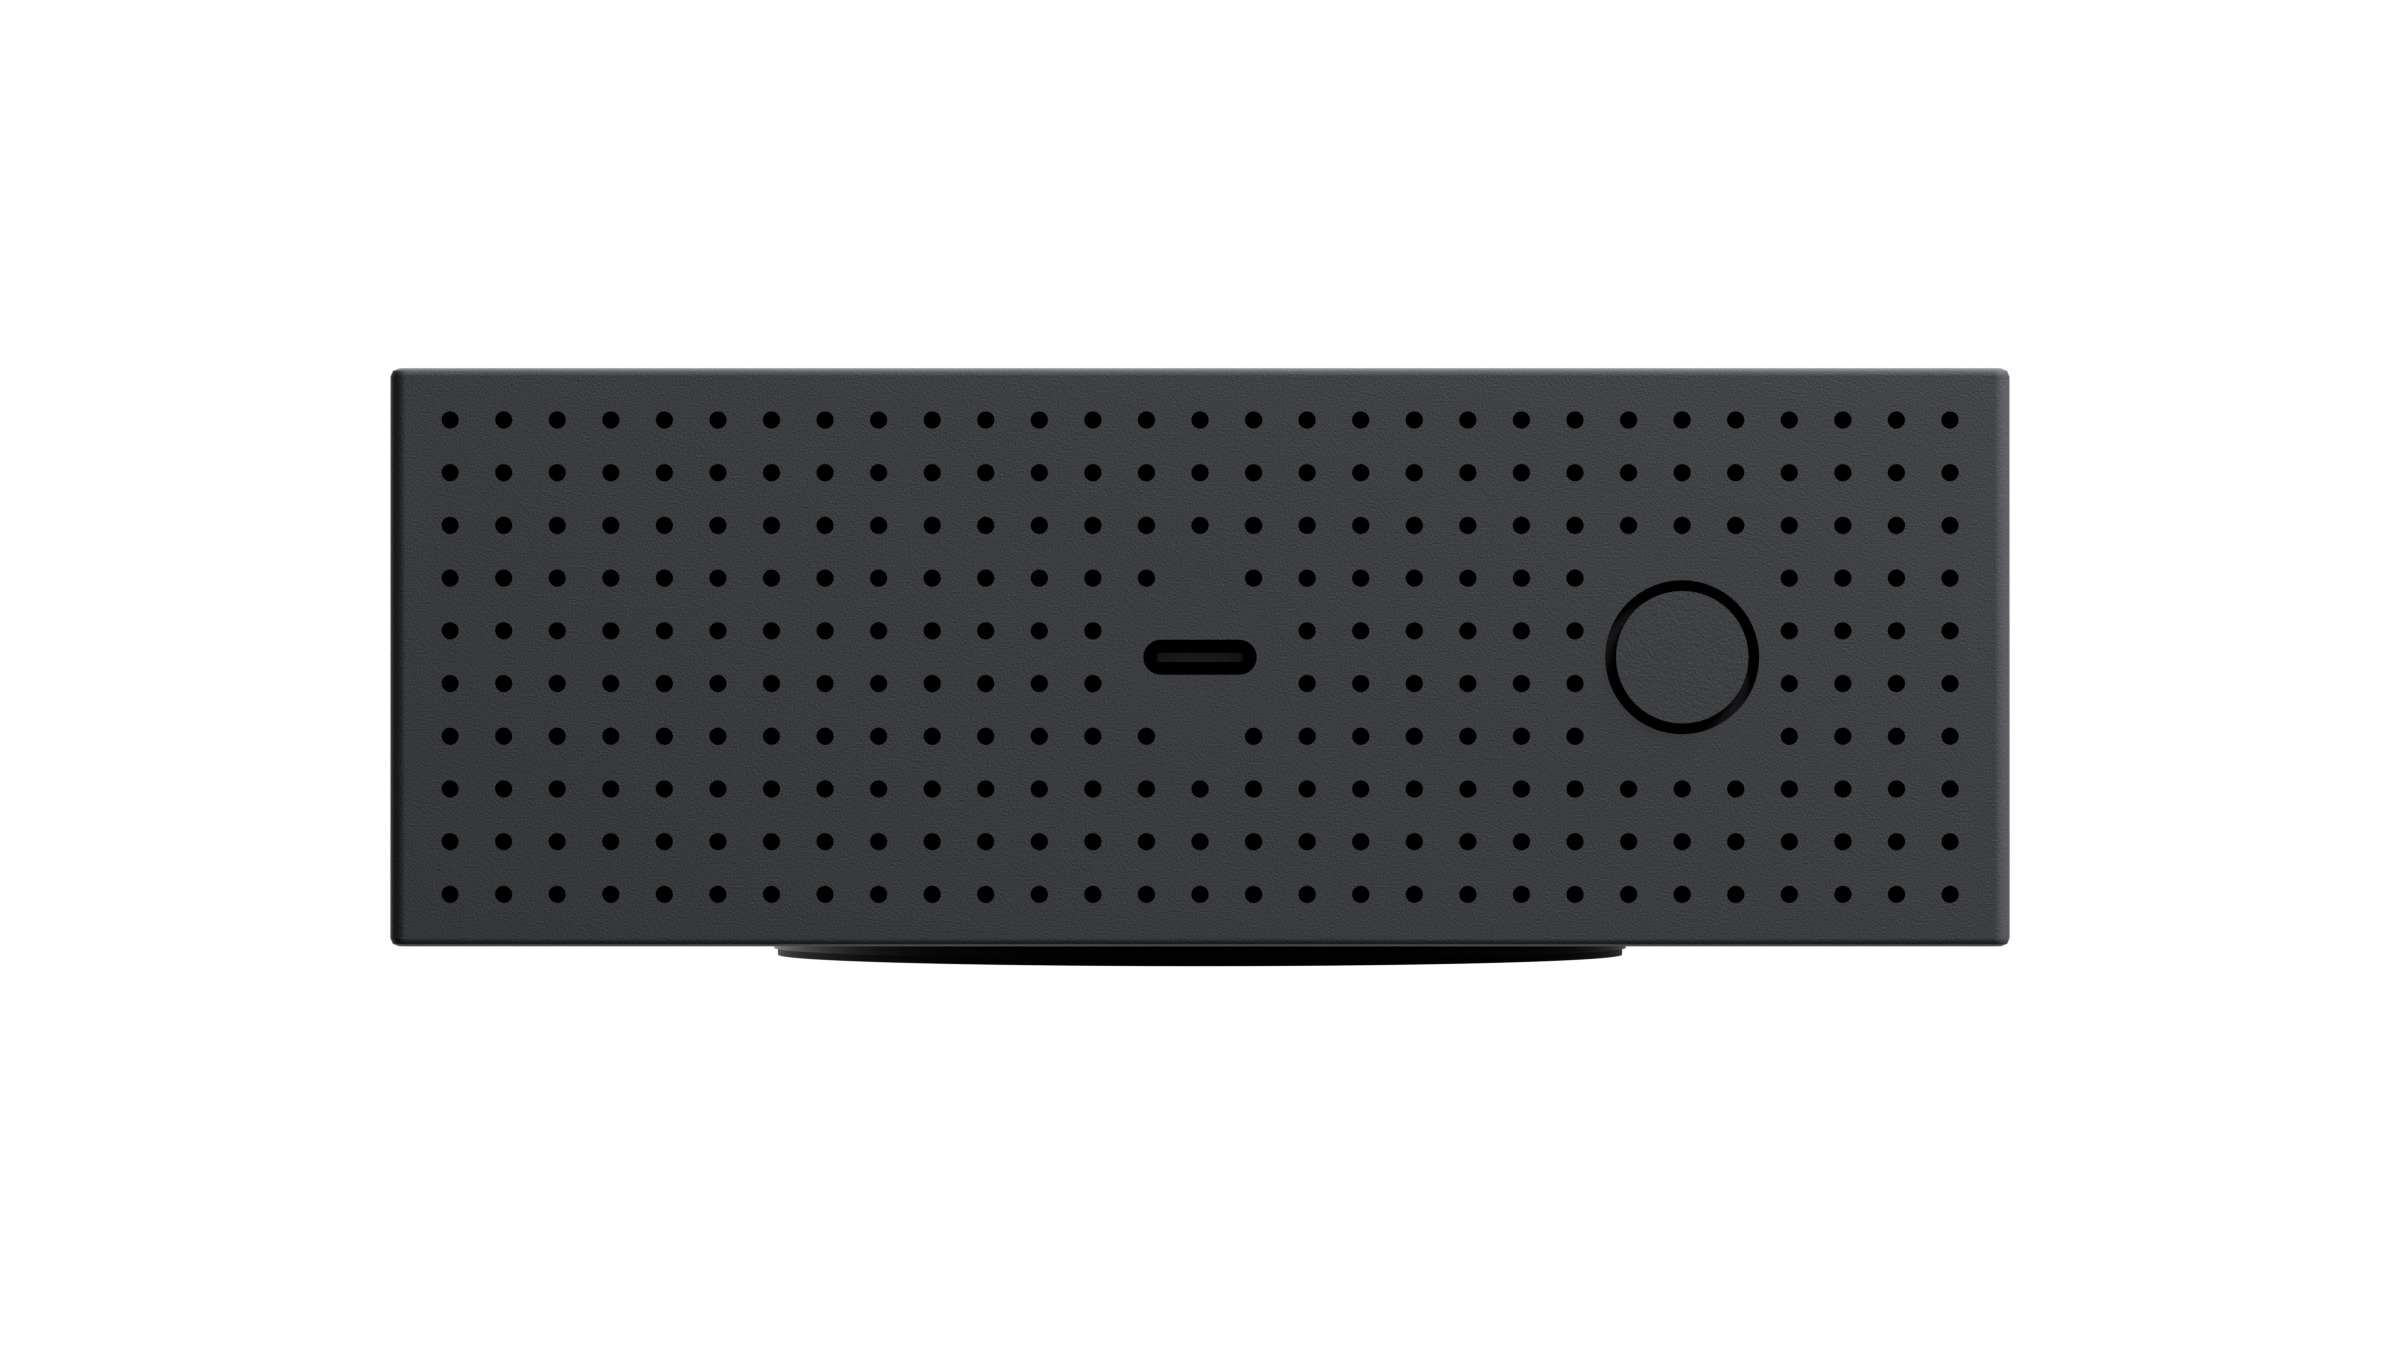
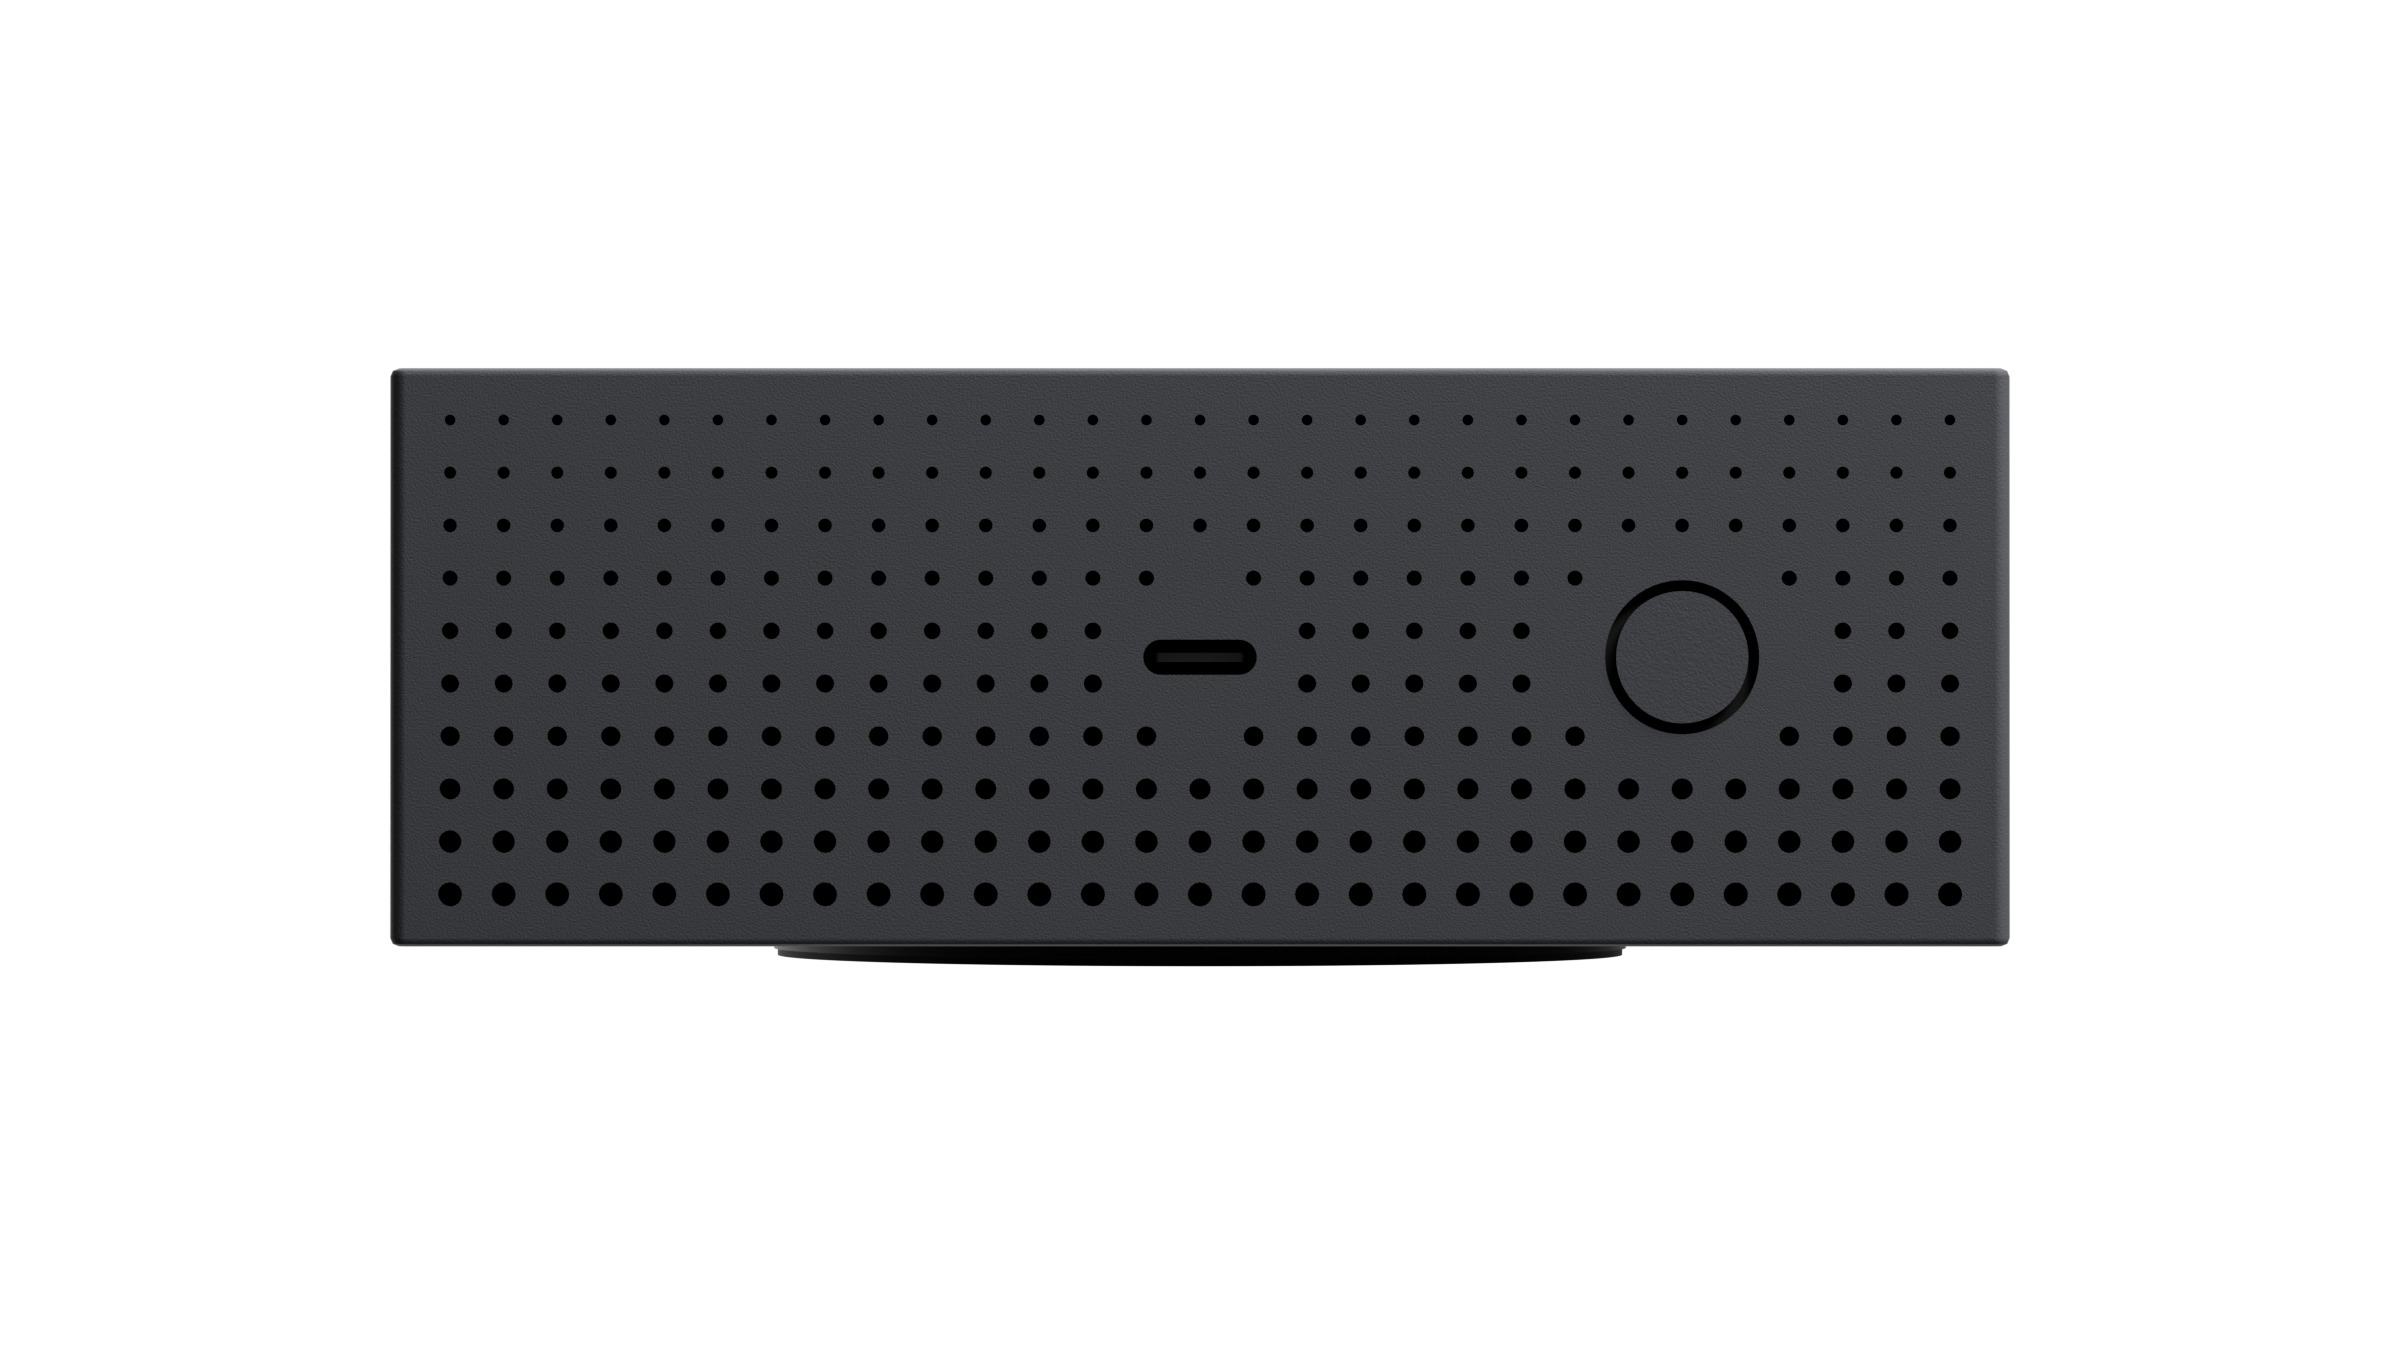
Deck: AuraWake graded speaker holes, button clearance, bracelet like the owner's reference

diff --git a/deck/blender/aura.py b/deck/blender/aura.py
@@ -148,6 +148,10 @@ def grid(L, n, d=HOLE_D):
 PU, OU, NU = grid(W - 2 * EDGE_P, 29)   # small holes, wide gaps (owner ref): gap ≈ 2.66 mm
 PV, OV, NV = grid(H - 2 * EDGE_T, 10)   # gap ≈ 2.60 mm
 def cols(p, o, n): return [-(n - 1) / 2 * p + i * p for i in range(n)]
+R_TOP, R_BOT = 0.0004, 0.0009   # hole radius, top row → bottom row (owner: graded, small at the top)
+SPAN_V = (NV - 1) / 2 * PV
+def hole_r(cv): return R_BOT + (R_TOP - R_BOT) * (cv + SPAN_V) / (2 * SPAN_V)
+BTN_CLEAR = 0.0085  # clears the button's gap plus the 2 + 2 holes beside it
 BTN_X = -9 * PU            # Bluetooth button on a hole column, right of the inlet seen from behind (world -X)
 
 def speaker_mask(nt):
@@ -171,11 +175,12 @@ def speaker_mask(nt):
     iu, iv = op('ROUND', op('DIVIDE', op('SUBTRACT', u, OU), PU)), op('ROUND', op('DIVIDE', op('SUBTRACT', v, OV), PV))
     cu, cv = op('ADD', op('MULTIPLY', iu, PU), OU), op('ADD', op('MULTIPLY', iv, PV), OV)
     fu, fv = op('SUBTRACT', u, cu), op('SUBTRACT', v, cv)
-    hole = op('LESS_THAN', op('ADD', op('MULTIPLY', fu, fu), op('MULTIPLY', fv, fv)), (HOLE_D / 2) ** 2)
+    rr = op('ADD', R_BOT, op('MULTIPLY', op('DIVIDE', op('ADD', cv, SPAN_V), 2 * SPAN_V), R_TOP - R_BOT))
+    hole = op('LESS_THAN', op('ADD', op('MULTIPLY', fu, fu), op('MULTIPLY', fv, fv)), op('MULTIPLY', rr, rr))
     region = op('MULTIPLY', op('LESS_THAN', op('ABSOLUTE', cu), (NU - 1) / 2 * PU + 1e-5), op('LESS_THAN', op('ABSOLUTE', cv), (NV - 1) / 2 * PV + 1e-5))
     def away(cx, rr):  # whole holes only: distance from the hole centre
         return op('GREATER_THAN', op('ADD', op('POWER', op('SUBTRACT', cu, cx), 2.0), op('POWER', cv, 2.0)), rr * rr)
-    back = op('MULTIPLY', isB, op('MULTIPLY', away(0.0, 0.0066), away(BTN_X, 0.0078)))
+    back = op('MULTIPLY', isB, op('MULTIPLY', away(0.0, 0.0066), away(BTN_X, BTN_CLEAR)))
     return op('MULTIPLY', op('MULTIPLY', hole, region), op('MAXIMUM', isX, back))
 
 def satin(name, color):
@@ -206,7 +211,7 @@ def body_toon(name, color):
     return m
 
 TABLE = SHOT == 'table'
-STUDIO = SHOT in ('table', 'front', 'back', 'top', 'bottom', 'cable', 'persp', 'lit', 'band', 'persp_back')
+STUDIO = SHOT in ('persp_band', 'table', 'front', 'back', 'top', 'bottom', 'cable', 'persp', 'lit', 'band', 'persp_back')
 if MODE == 'real':
     MATS = {
         'body': body_real('body', srgb('#2c2d31')),
@@ -221,7 +226,8 @@ if MODE == 'real':
                      emit('led_under', srgb(NIGHT if SHOT == 'night' else DAWN), 90.0 if SHOT == 'night' else 160.0 if SHOT == 'lit' else 70.0),
         'led_front': emit('led_front', srgb('#ffffff'), 3.0 if STUDIO else 0.0),
         'dots': emit('dots', srgb('#ffd9a0'), 7.0),
-        'band': bump_tex(principled('band', srgb('#08080a'), rough=0.78), 'wave', 260, 0.25),
+        'band': principled('band', srgb('#2a2b2f'), rough=0.62),
+        'modalu': bump_tex(principled('modalu', srgb('#2c2d31'), metal=1.0, rough=0.38), 'noise', 9000, 0.05),
         'cable': bump_tex(principled('cable', srgb('#0e0e10'), rough=0.8), 'wave', 420, 0.5),
         'plug': principled('plug', srgb('#0a0a0b'), rough=0.6),
     }
@@ -360,17 +366,18 @@ def stadium_bm(w, h, depth, seg=16):
     return bm
 
 def holes_bm(depth=0.0032, seg=16):
-    """Every speaker hole as its own cylinder (no overlaps): sides along X, back along Y, the inlet and button gaps left out."""
-    bm = bmesh.new(); r = HOLE_D / 2
-    def add(m):
+    """Every speaker hole as its own cylinder (no overlaps), graded top → bottom: sides along X, back along Y, the inlet
+    and button gaps left out."""
+    bm = bmesh.new()
+    def add(m, r):
         bmesh.ops.create_cone(bm, cap_ends=True, segments=seg, radius1=r, radius2=r, depth=depth, matrix=m)
     for u in cols(PU, OU, NU):
         for cv in cols(PV, OV, NV):
-            z = MID + cv
+            z, r = MID + cv, hole_r(cv)
             for sx in (-1, 1):
-                add(Matrix.Translation((sx * W / 2, u, z)) @ Matrix.Rotation(math.pi / 2, 4, 'Y'))
-            if u * u + cv * cv > 0.0066 ** 2 and (u - BTN_X) ** 2 + cv * cv > 0.0078 ** 2:
-                add(Matrix.Translation((u, W / 2, z)) @ Matrix.Rotation(math.pi / 2, 4, 'X'))
+                add(Matrix.Translation((sx * W / 2, u, z)) @ Matrix.Rotation(math.pi / 2, 4, 'Y'), r)
+            if u * u + cv * cv > 0.0066 ** 2 and (u - BTN_X) ** 2 + cv * cv > BTN_CLEAR ** 2:
+                add(Matrix.Translation((u, W / 2, z)) @ Matrix.Rotation(math.pi / 2, 4, 'X'), r)
     return bm
 
 def cut(ob, bm, loc, mat):
@@ -429,13 +436,35 @@ def build_bracelet_open():
     pod = rbox('pod', 0.0198, 0.036, 0.0024, 0.006, 0.0011, 'band', (0, 0, TOP + t - 0.0004), sp=12, se=3)
     return group('bracelet', [band, pod])
 
-def build_bracelet():
-    """Closed band standing, as in the owner's reference (technical drawing)."""
-    R = 0.03; pts = []
-    for k in range(12):
-        a = 2 * math.pi * k / 12; pts.append((0, R * 0.82 * math.cos(a), R * 1.12 * math.sin(a) + R * 1.12 + 0.0017))
-    band = sweep('band', pts, 'band', cyclic=True)
-    return group('bracelet', [band])
+def frame(name, sx, sy, sz, bar, mat, loc):
+    """Rectangular ring around the strap (buckle, keeper)."""
+    x, y, z = loc
+    return [rbox(f'{name}{i}', w, d, sz, 0.0, 0.0004, mat, (x + dx, y + dy, z), sp=1, se=2) for i, (w, d, dx, dy) in enumerate((
+        (sx, bar, 0, -(sy - bar) / 2), (sx, bar, 0, (sy - bar) / 2), (bar, sy, -(sx - bar) / 2, 0), (bar, sy, (sx - bar) / 2, 0)))]
+
+def build_bracelet(z0=0.0):
+    """Closed strap standing on its aluminium module: the module's back lies on the magnetic, charging top."""
+    t, ry, rz, mh = 0.0034, 0.031, 0.033, 0.0062
+    cz = z0 + mh + rz + t / 2
+    pts = [(0, ry * math.cos(2 * math.pi * k / 16), cz + rz * math.sin(2 * math.pi * k / 16)) for k in range(16)]
+    parts = [sweep('band', pts, 'band', cyclic=True),
+             rbox('module', 0.0215, 0.044, mh, 0.0045, 0.0012, 'modalu', (0, 0, z0), sp=12, se=3)]
+    def on_arc(name, objs, a, lift=0.0):
+        """Parent objects built at the origin (z = outward) to a point on the loop's outer surface at angle a."""
+        a = math.radians(a); phi = math.atan2(-rz * math.cos(a), ry * math.sin(a))
+        n = Vector((0, -math.sin(phi), math.cos(phi)))
+        p = Vector((0, (ry + t / 2) * math.cos(a), cz + (rz + t / 2) * math.sin(a))) + n * lift
+        e = bpy.data.objects.new(name, None); col.objects.link(e); e.location = p; e.rotation_euler = (phi, 0, 0)
+        for o in objs: o.parent = e
+        return e
+    # tail: a second layer of strap over the top arc, through the keeper and into the buckle
+    tail = [(0, (ry + t) * math.cos(math.radians(a)), cz + (rz + t) * math.sin(math.radians(a))) for a in range(58, 106, 4)]
+    parts.append(sweep('tail', tail, 'band'))
+    parts.append(on_arc('buckle', frame('bk', 0.0235, 0.0095, 0.0042, 0.0016, 'modalu', (0, 0, -0.0016)), 106))
+    parts.append(on_arc('keeper', frame('kp', 0.0232, 0.0055, 0.0072, 0.0013, 'band', (0, 0, -0.0018)), 66))
+    for k, a in enumerate((76, 84, 92)):
+        parts.append(on_arc(f'hole{k}', [rbox(f'h{k}', 0.0058, 0.0032, 0.0005, 0.0011, 0.0, 'cavity', (0, 0, 0), sp=6)], a, lift=t * 1.5))
+    return group('bracelet', parts)
 
 def build_cable():
     """USB-C power adapter (EU pins) and braided USB-C cable."""
@@ -555,12 +584,13 @@ def studio(view):
         build_cable(); fw, tgt, pos = 0.34, (0.115, 0, 0.016), (0.115, -1, 0.016)
     elif view == 'band':
         build_bracelet(); fw, tgt, pos = 0.17, (0, 0, 0.035), (0.6, -0.9, 0.35)
-    elif view in ('persp', 'lit', 'persp_back'):
+    elif view in ('persp', 'lit', 'persp_back', 'persp_band'):
         build_base(with_time=(view == 'lit')); fw, tgt = W / 0.55, (0, 0, TOP * 0.42)
+        if view == 'persp_band': build_bracelet(TOP).rotation_euler = (0, 0, math.radians(-50)); fw, tgt = W / 0.42, (0, 0, TOP + 0.012)
         pos = (-0.62, 0.95, 0.24) if view == 'persp_back' else (0.62, -0.95, 0.24)
     else:
         build_base()
-        if view == 'top': build_bracelet_open().rotation_euler = (0, 0, math.pi / 2)
+        if view == 'top': build_bracelet(TOP)
         if view in ('front', 'back'):
             fw = W / 0.62; tgt = (0, 0, TOP * 0.5); pos = (0, -1 if view == 'front' else 1, TOP * 0.42)
         else:
@@ -576,7 +606,7 @@ def studio(view):
     area('left', (-0.9, -0.5, 0.15), (0, 0, 0.02), 0.6, 35)
     area('right', (0.9, -0.5, 0.15), (0, 0, 0.02), 0.6, 35)
     area('cam', tuple(Vector(cam.location) * 0.9 + Vector((0, 0, 0.3))), tgt, 1.2, 25)
-    if view in ('persp', 'lit', 'band', 'persp_back'): area('front', tuple(Vector(cam.location) * 0.8 + Vector((-0.3, 0, 0.2))), tgt, 1.4, 40)
+    if view in ('persp', 'lit', 'band', 'persp_back', 'persp_band'): area('front', tuple(Vector(cam.location) * 0.8 + Vector((-0.3, 0, 0.2))), tgt, 1.4, 40)
     if view in ('persp', 'lit'):
         area('topback', (-0.1, 0.9, 0.9), (0, 0, 0.03), 1.6, 45)
         area('sidestrip', (1.0, 0.45, 0.25), (0, 0, 0.02), 0.5, 30)
